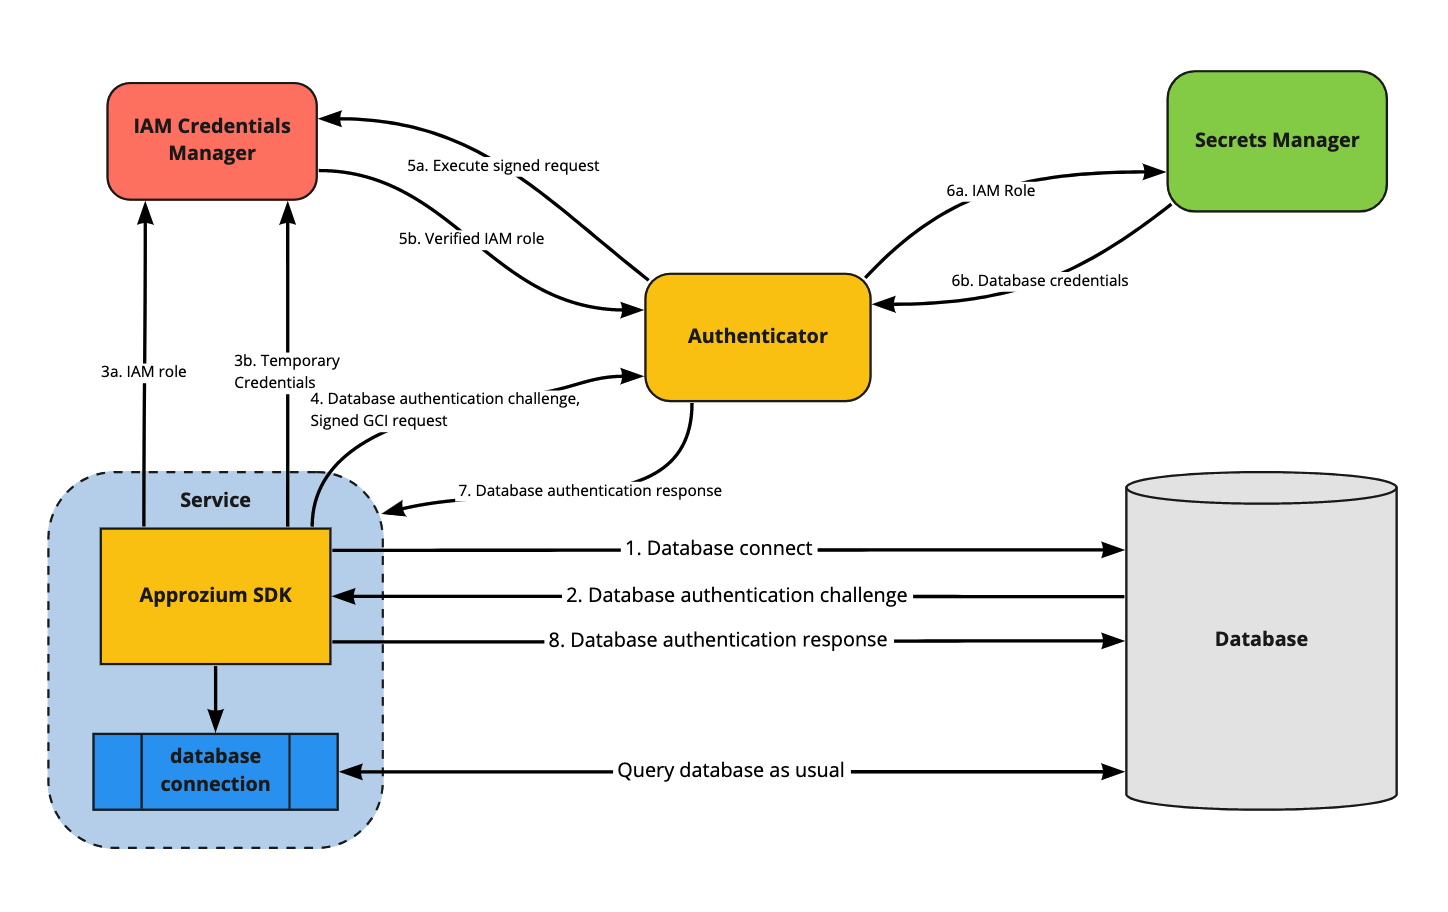
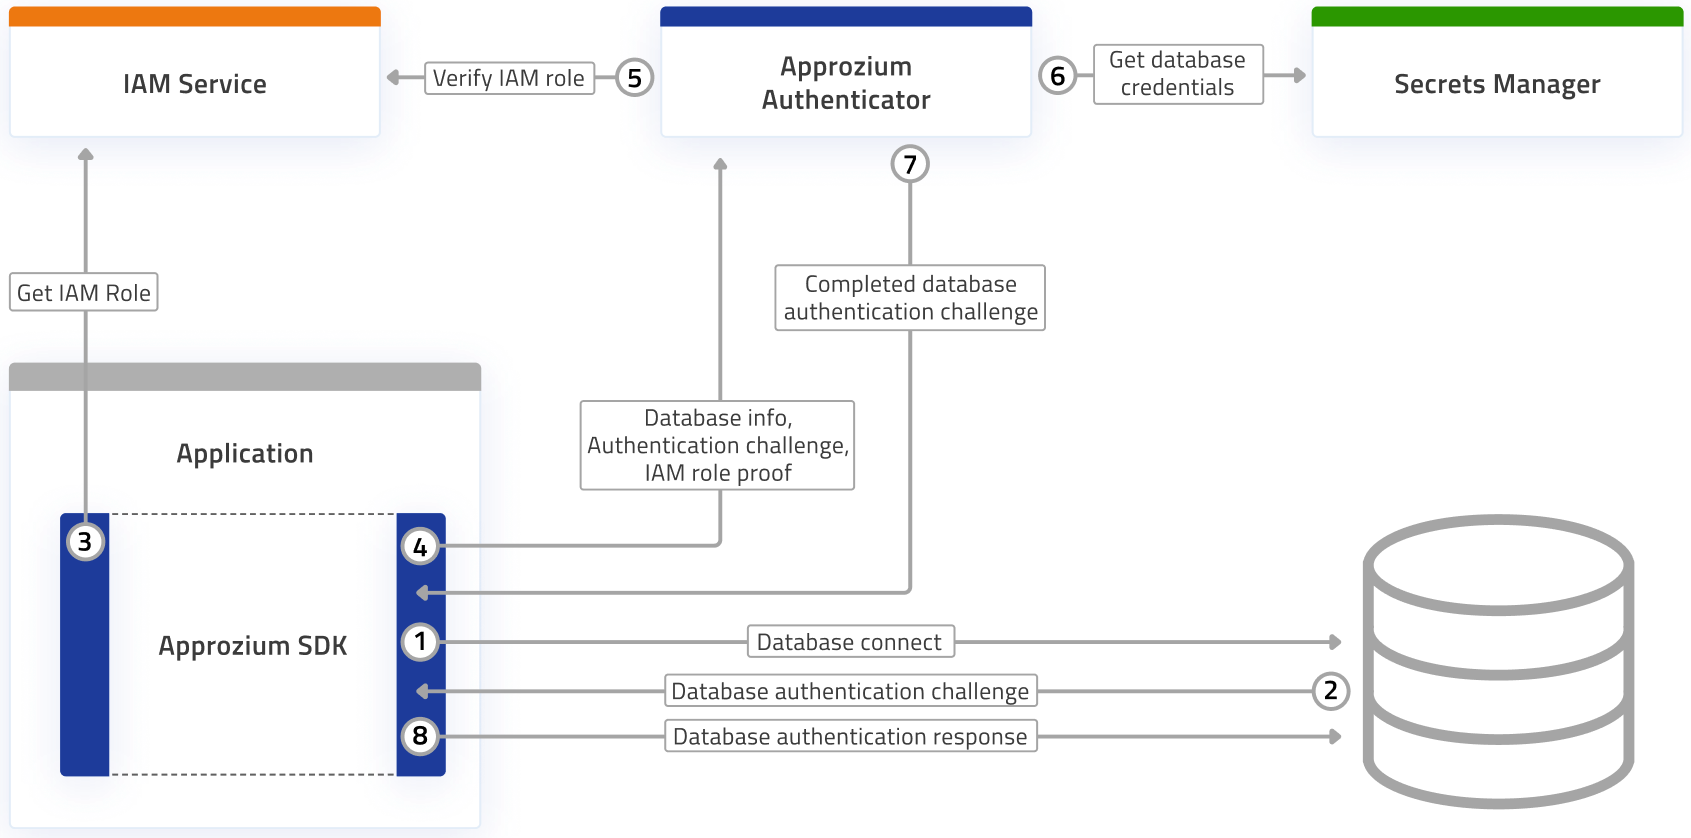
Docs updates (#133)
* add docsearch

* update compatibility matrix

* remove hardcoded password from overview

* dbhost as string

* update architecture diagram

* add docsearch

* update compatibility matrix

* remove hardcoded password from overview

* update architecture diagram

* update roadmpa

* trim overview

* update next steps

* cursor pointer on hover on landing page

* update roadmap

* update architecture

* update apzm icon

diff --git a/docs/docusaurus.config.js b/docs/docusaurus.config.js
@@ -3,7 +3,7 @@ module.exports = {
   tagline: 'The tagline of my site',
   url: 'https://approzium.com',
   baseUrl: '/',
-  favicon: 'img/apzm-icon.png',
+  favicon: 'img/apzm-icon.svg',
   organizationName: 'cyralinc',
   projectName: 'approzium',
   themeConfig: {
@@ -11,7 +11,7 @@ module.exports = {
       title: 'Approzium',
       logo: {
         alt: 'Approzium Logo',
-        src: 'img/apzm-icon.png',
+        src: 'img/apzm-icon.svg',
       },
       links: [
         {
@@ -26,6 +26,12 @@ module.exports = {
           position: 'right',
         },
       ],
+    },
+    algolia: {
+      apiKey: '8ce076a38f6bf25b30877ca2251ec1e4',
+      indexName: 'prod_APPROZIUM_DOCS',
+      appId: '51LSIHDN1A', // Optional, if you run the DocSearch crawler on your own
+      algoliaOptions: {}, // Optional, if provided by Algolia
     },
     footer: {
       style: 'light',

diff --git a/docs/src/pages/index.js b/docs/src/pages/index.js
@@ -17,7 +17,7 @@ function Home() {
       <header className={clsx('hero hero--primary', styles.heroBanner)}>
         <div className={clsx('container', styles.container)}>
           <div>
-            <img className={clsx('icon', styles.icon)} src={'img/apzm-icon.png'} />
+            <img className={clsx('icon', styles.icon)} src={'img/apzm-icon.svg'} />
             <h1 className={clsx('hero__title', styles.heroTitle)}>{siteConfig.title}</h1>
             <p className={clsx('hero__subtitle', styles.heroSubtitle)}>
               Enhance the <strong>observability</strong> and <strong>security</strong><br /> of your database applications.

diff --git a/docs/src/pages/components/InfoModal/styles.module.css b/docs/src/pages/components/InfoModal/styles.module.css
@@ -34,6 +34,7 @@
 
 .selector:hover {
     font-weight: 600;
+    cursor: pointer;
 }
 
 .leftSelector {

diff --git a/docs/docs/overview.md b/docs/docs/overview.md
@@ -5,56 +5,56 @@ title: Overview
 import Image from '@theme/IdealImage';
 
 ## Introduction
-Approzium enables developers to improve the observability and security of their applications. It allows applications to connect to databases without requiring access to credentials, and emits logs, metrics and traces with enriched information about their runtime execution context. It is built as a lightweight open source library with multi-language and multi-cloud support. 
+Approzium enables developers to improve the observability and security of their applications. It allows applications to connect to databases without requiring access to credentials, and emits logs, metrics and traces with enriched information about their runtime execution context. It is built as a lightweight open source library with multi-language and multi-cloud support.
 
-Approzium eliminates blind spots in the diagnosis and tracing of complex performance problems within autoscaled microservices running on modern orchestration frameworks such as Kubernetes and AWS ECS (Elastic Container Service). For example, all instances of an autoscaled microservice look alike from a database’s perspective. This makes it harder to attribute performance issues resulting from misbehaving queries, buggy service code and faulty cloud VMs to a specific microservice instance.
-
-By providing richer execution context about each microservice instance, such as the service’s IAM role info, the EC2 instance id and hostname where it’s running, or its container/task id in dockerized environments, Approzium allows DevOps teams to quickly trace and resolve performance issues. This context is added to the existing logs, metrics and traces already being emitted by the microservice.
+Approzium eliminates blind spots in the diagnosis and tracing of complex performance problems within autoscaled microservices running on modern orchestration frameworks such as Kubernetes and AWS ECS (Elastic Container Service). It makes it easy to attribute performance issues resulting from misbehaving queries, buggy service code and faulty cloud VMs to a specific microservice instance.
 
 Additionally, Approzium addresses common security vulnerabilities in how applications typically connect to a database. For example, here's how you might typically connect to your database currently:
 
 ```python
 from psycopg2 import connect
+import os
 
 # In your environment, the password may be pulled from any place, S3, a config 
 # file, HashiCorp Vault, or wherever. But wherever it originates, it can be
 # leaked by your client application because it's in memory.
-conn = connect("host=1.2.3.4 user=user1 password=verySecurePassword")
+conn = connect('host=1.2.3.4 user=user1 password=verySecurePassword')
 ```
 
 Whether database credentials are stored in the application code itself (as in this example), or in a secrets manager such as Hashicorp Vault, allowing applications direct access to credentials exposes them to leaks through inadvertent application logging, application compromise, or theft of secrets manager API keys.
 
-Approzium solves this problem by leveraging the cloud providers’ security infrastructure to authenticate the applications using IAM roles, instead, thus abstracting database credentials away from them. Here's what the same code would look like with Approzium 😎
+Approzium solves this problem by leveraging the cloud providers’ security infrastructure to authenticate the applications using IAM roles. Here's what the same code would look like with Approzium 😎
 
 ```python
 import approzium
 from approzium.psycopg2 import connect
 
 approzium.default_auth_client = approzium.AuthClient('authenticator:6001')
-conn = connect("host=1.2.3.4 user=user1")  # Look ma, no password!
+conn = connect('host=1.2.3.4 user=user1')  # Look ma, no password!
 ```
 
 With the _password_ attribute removed from the `connect()` API, applications no longer need to know the actual database credentials in order to connect to them while administrators can still retain control over which applications are allowed access through the use of IAM roles.
 
-Approzium integrates with popular secrets managers such as Hashicorp Vault and AWS Secrets Manager for the storage of database credentials, and uses OpenTelemetry to make it easy to integrate with a wide variety of observability products, such as Prometheus/Grafana, ELK, Datadog and New Relic.
-
 Approzium is developed by the engineering team at Cyral and is available under the Apache 2.0 license, free for anyone to use and develop.
 
+
 ## Overview 
-Approzium comprises two components that are deployed independently -- an SDK that runs as part of the application code, and a standalone service called the Authenticator with which the SDK interacts on behalf of the application. A single Authenticator instance can support multiple applications, which may be set up optionally as an auto scaling group for load balancing purposes.
+Approzium comprises two components that are deployed independently -- an SDK that runs as part of the application code, and a standalone service called the Authenticator with which the SDK interacts on behalf of the application.
 
 <Image img={require('./images/overview-diagram.png')} />
 
-Together, the SDK and Authenticator provide observability and security benefits to the application. The SDK has the ability to query infrastructure metadata services native to the various cloud platforms, and to orchestration frameworks such as Kubernetes to generate rich execution time context about the application. SDK APIs make it easy for developers to enrich their existing logs, metrics and traces with the context.
+Together, the SDK and Authenticator provide observability and security benefits to the application. The SDK has the ability to query infrastructure metadata services native to the various cloud platforms, and to orchestration frameworks such as Kubernetes to generate rich execution time context about the application.
 
-From a security perspective, the SDK also generates an application fingerprint that serves as its identity. While the actual mechanism depends on the cloud platform, the fingerprinting is primarily based on using an IAM role assigned to the application to generate a cryptographically verifiable signature for it. On AWS, for instance, Approzium SDK generates a signed GetCallerIdentity API request by requesting temporary credentials from the Security Token Service (STS). The signed request is sent to the Authenticator, which verifies its validity and authenticity by presenting it to STS.
+The SDK also generates an application fingerprint which serves as its identity. Fingerprinting is primarily based on using an IAM role assigned to the application to generate a cryptographically verifiable signature. On AWS, Approzium SDK generates a signed _GetCallerIdentity_ API request using the _Security Token Service (STS)_, which is sent to the Authenticator for verification.
 
-The Authenticator service, in addition to authenticating applications, also computes responses to database challenges needed by the applications in order to connect to the databases. It is built with extensibility in mind to support multiple databases and their respective authentication methods. It delegates all credentials storage and management to popular secrets managers such as Hashicorp Vault and AWS Secrets Manager. By doing so, it ends up being a simple stateless service making it easy to handle failures and scale using auto scaling groups, Kubernetes daemon sets and ECS tasks.
+The Authenticator also computes responses to database challenges on behalf of applications. All credentials storage and management is delegated to secrets managers such as Hashicorp Vault. By doing so, it ends up being a simple stateless service making it easy to handle failures and scale using auto scaling groups, Kubernetes daemon sets and ECS tasks.
 
 ## Next Steps
 - You can get started with Approzium [here](quickstart).
-- Learn how it works by checking out the [architecture](architecture).
+- Learn how Approzium works by checking out the [architecture](architecture).
+- Learn more about Approzium's approach to [observability](observability) and [security](security-model).
 - Visit our [GitHub](https://github.com/cyralinc/approzium) to download and play with it. PRs welcome!
+- Join our [Slack](https://join.slack.com/t/approzium/shared_invite/zt-fg9bdcfa-H9YFnlg3XeosKyMIYadmcg) for help and announcements.
 
 We hope you enjoy it! 🤗
 
